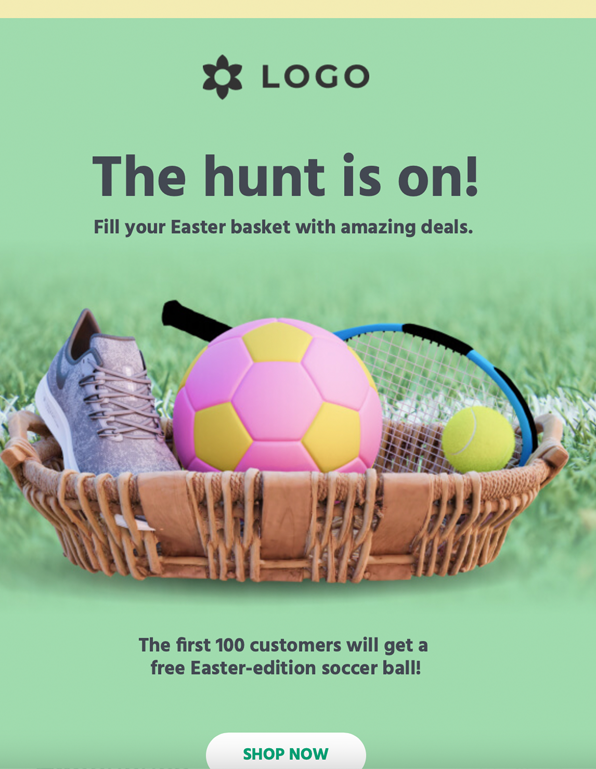
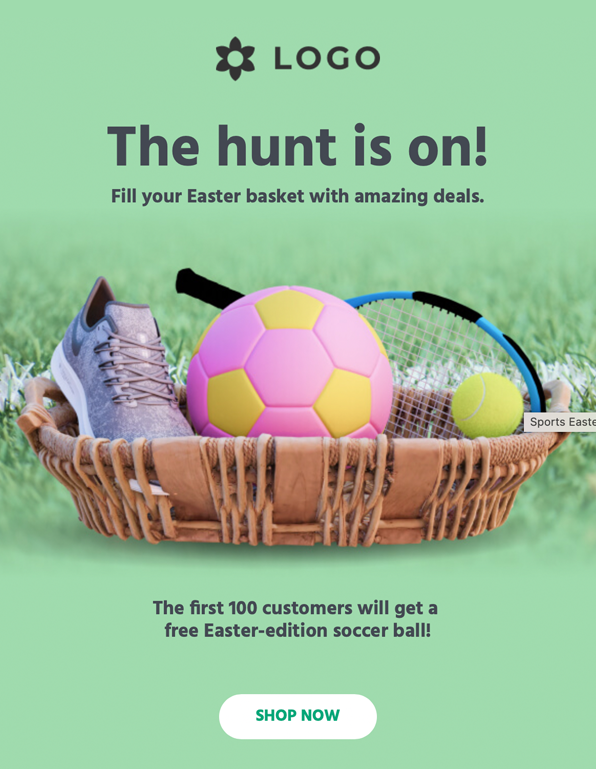
update template

diff --git a/database/templates/featured/002-sport/00464e8382883/index.html b/database/templates/featured/002-sport/00464e8382883/index.html
@@ -168,18 +168,18 @@
          }
       </style>
    </head>
-   <body class="clean-body" style="margin: 0; padding: 0; -webkit-text-size-adjust: 100%; background-color: #f3ecb3;">
+   <body class="clean-body" style="margin: 0; padding: 0; -webkit-text-size-adjust: 100%; background-color: #9fdbad;">
       <!--[if IE]>
       <div class="ie-browser">
          <![endif]-->
-         <table bgcolor="#f3ecb3" cellpadding="0" cellspacing="0" class="nl-container" role="presentation" style="table-layout: fixed; vertical-align: top; min-width: 320px; border-spacing: 0; border-collapse: collapse; mso-table-lspace: 0pt; mso-table-rspace: 0pt; background-color: #f3ecb3; width: 100%;" valign="top" width="100%">
+         <table bgcolor="#9fdbad" cellpadding="0" cellspacing="0" class="nl-container" role="presentation" style="table-layout: fixed; vertical-align: top; min-width: 320px; border-spacing: 0; border-collapse: collapse; mso-table-lspace: 0pt; mso-table-rspace: 0pt;  width: 100%;" valign="top" width="100%">
          <tbody>
             <tr style="vertical-align: top;" valign="top">
                <td style="word-break: break-word; vertical-align: top;" valign="top">
                   <!--[if (mso)|(IE)]>
                   <table width="100%" cellpadding="0" cellspacing="0" border="0">
                      <tr>
-                        <td align="center" style="background-color:#f3ecb3">
+                        <td align="center" style="background-color:#9fdbad">
                            <![endif]-->
                            <div builder-element="BlockElement" builder-draggable style="background-color:transparent;">
                               <div class="block-grid container" style="overflow-wrap: break-word; word-wrap: break-word; word-break: break-word; Margin: 0 auto; background-color: transparent;">
@@ -239,8 +239,8 @@
                               </div>
                            </div>
                            <div builder-element="BlockElement" builder-draggable style="background-color:transparent;">
-                              <div class="block-grid container" style="overflow-wrap: break-word; word-wrap: break-word; word-break: break-word; Margin: 0 auto; background-color: #9fdbad;">
-                                 <div style="border-collapse: collapse;display: table;width: 100%;background-color:#9fdbad;">
+                              <div class="block-grid container" style="overflow-wrap: break-word; word-wrap: break-word; word-break: break-word; Margin: 0 auto; ">
+                                 <div style="border-collapse: collapse;display: table;width: 100%;">
                                     <!--[if (mso)|(IE)]>
                                     <table width="100%" cellpadding="0" cellspacing="0" border="0" builder-element="BlockElement" builder-draggable style="background-color:transparent;">
                                        <tr>
@@ -249,7 +249,7 @@
                                                 <tr class="layout-full-width" style="background-color:#9fdbad">
                                                    <![endif]-->
                                                    <!--[if (mso)|(IE)]>
-                                                   <td align="center" width="640" style="background-color:#9fdbad;width:640px; border-top: 0px solid transparent; border-left: 0px solid transparent; border-bottom: 0px solid transparent; border-right: 0px solid transparent;" valign="top">
+                                                   <td align="center" width="640" style="width:640px; border-top: 0px solid transparent; border-left: 0px solid transparent; border-bottom: 0px solid transparent; border-right: 0px solid transparent;" valign="top">
                                                       <table width="100%" cellpadding="0" cellspacing="0" border="0">
                                                          <tr>
                                                             <td style="padding-right: 0px; padding-left: 0px; padding-top:0px; padding-bottom:0px;">
@@ -363,8 +363,8 @@
                               </div>
                            </div>
                            <div builder-element="BlockElement" builder-draggable style="background-color:transparent;">
-                              <div class="block-grid container two-up" style="overflow-wrap: break-word; word-wrap: break-word; word-break: break-word; Margin: 0 auto; background-color: #9fdbad;">
-                                 <div style="border-collapse: collapse;display: table;width: 100%;background-color:#9fdbad;">
+                              <div class="block-grid container two-up" style="overflow-wrap: break-word; word-wrap: break-word; word-break: break-word; Margin: 0 auto; ">
+                                 <div style="border-collapse: collapse;display: table;width: 100%;">
                                     <!--[if (mso)|(IE)]>
                                     <table width="100%" cellpadding="0" cellspacing="0" border="0" builder-element="BlockElement" builder-draggable style="background-color:transparent;">
                                        <tr>
@@ -373,7 +373,7 @@
                                                 <tr class="layout-full-width" style="background-color:#9fdbad">
                                                    <![endif]-->
                                                    <!--[if (mso)|(IE)]>
-                                                   <td align="center" width="320" style="background-color:#9fdbad;width:320px; border-top: 0px solid transparent; border-left: 0px solid transparent; border-bottom: 0px solid transparent; border-right: 0px solid transparent;" valign="top">
+                                                   <td align="center" width="320" style="width:320px; border-top: 0px solid transparent; border-left: 0px solid transparent; border-bottom: 0px solid transparent; border-right: 0px solid transparent;" valign="top">
                                                       <table width="100%" cellpadding="0" cellspacing="0" border="0">
                                                          <tr>
                                                             <td style="padding-right: 0px; padding-left: 0px; padding-top:5px; padding-bottom:5px;">
@@ -410,7 +410,7 @@
                                                       <![endif]-->
                                                       <!--[if (mso)|(IE)]>
                                                    </td>
-                                                   <td align="center" width="320" style="background-color:#9fdbad;width:320px; border-top: 0px solid transparent; border-left: 0px solid transparent; border-bottom: 0px solid transparent; border-right: 0px solid transparent;" valign="top">
+                                                   <td align="center" width="320" style="width:320px; border-top: 0px solid transparent; border-left: 0px solid transparent; border-bottom: 0px solid transparent; border-right: 0px solid transparent;" valign="top">
                                                       <table width="100%" cellpadding="0" cellspacing="0" border="0">
                                                          <tr>
                                                             <td style="padding-right: 0px; padding-left: 0px; padding-top:5px; padding-bottom:5px;">
@@ -521,8 +521,8 @@
                               </div>
                            </div>
                            <div builder-element="BlockElement" builder-draggable style="background-color:transparent;">
-                              <div class="block-grid container two-up" style="overflow-wrap: break-word; word-wrap: break-word; word-break: break-word; Margin: 0 auto; background-color: #9fdbad;">
-                                 <div style="border-collapse: collapse;display: table;width: 100%;background-color:#9fdbad;;direction:rtl">
+                              <div class="block-grid container two-up" style="overflow-wrap: break-word; word-wrap: break-word; word-break: break-word; Margin: 0 auto; ">
+                                 <div style="border-collapse: collapse;display: table;width: 100%;;direction:rtl">
                                     <!--[if (mso)|(IE)]>
                                     <table width="100%" cellpadding="0" cellspacing="0" border="0" builder-element="BlockElement" builder-draggable style="background-color:transparent;">
                                        <tr>
@@ -531,7 +531,7 @@
                                                 <tr class="layout-full-width" style="background-color:#9fdbad">
                                                    <![endif]-->
                                                    <!--[if (mso)|(IE)]>
-                                                   <td align="center" width="320" style="background-color:#9fdbad;width:320px; border-top: 0px solid transparent; border-left: 0px solid transparent; border-bottom: 0px solid transparent; border-right: 0px solid transparent;" valign="top">
+                                                   <td align="center" width="320" style="width:320px; border-top: 0px solid transparent; border-left: 0px solid transparent; border-bottom: 0px solid transparent; border-right: 0px solid transparent;" valign="top">
                                                       <table width="100%" cellpadding="0" cellspacing="0" border="0">
                                                          <tr>
                                                             <td style="padding-right: 0px; padding-left: 0px; padding-top:5px; padding-bottom:5px;">
@@ -568,7 +568,7 @@
                                                       <![endif]-->
                                                       <!--[if (mso)|(IE)]>
                                                    </td>
-                                                   <td align="center" width="320" style="background-color:#9fdbad;width:320px; border-top: 0px solid transparent; border-left: 0px solid transparent; border-bottom: 0px solid transparent; border-right: 0px solid transparent;" valign="top">
+                                                   <td align="center" width="320" style="width:320px; border-top: 0px solid transparent; border-left: 0px solid transparent; border-bottom: 0px solid transparent; border-right: 0px solid transparent;" valign="top">
                                                       <table width="100%" cellpadding="0" cellspacing="0" border="0">
                                                          <tr>
                                                             <td style="padding-right: 0px; padding-left: 0px; padding-top:5px; padding-bottom:5px;">
@@ -679,8 +679,8 @@
                               </div>
                            </div>
                            <div builder-element="BlockElement" builder-draggable style="background-color:transparent;">
-                              <div class="block-grid container" style="overflow-wrap: break-word; word-wrap: break-word; word-break: break-word; Margin: 0 auto; background-color: #9fdbad;">
-                                 <div style="border-collapse: collapse;display: table;width: 100%;background-color:#9fdbad;">
+                              <div class="block-grid container" style="overflow-wrap: break-word; word-wrap: break-word; word-break: break-word; Margin: 0 auto; ">
+                                 <div style="border-collapse: collapse;display: table;width: 100%;">
                                     <!--[if (mso)|(IE)]>
                                     <table width="100%" cellpadding="0" cellspacing="0" border="0" builder-element="BlockElement" builder-draggable style="background-color:transparent;">
                                        <tr>
@@ -689,7 +689,7 @@
                                                 <tr class="layout-full-width" style="background-color:#9fdbad">
                                                    <![endif]-->
                                                    <!--[if (mso)|(IE)]>
-                                                   <td align="center" width="640" style="background-color:#9fdbad;width:640px; border-top: 0px solid transparent; border-left: 0px solid transparent; border-bottom: 0px solid transparent; border-right: 0px solid transparent;" valign="top">
+                                                   <td align="center" width="640" style="width:640px; border-top: 0px solid transparent; border-left: 0px solid transparent; border-bottom: 0px solid transparent; border-right: 0px solid transparent;" valign="top">
                                                       <table width="100%" cellpadding="0" cellspacing="0" border="0">
                                                          <tr>
                                                             <td style="padding-right: 0px; padding-left: 0px; padding-top:20px; padding-bottom:30px;">
